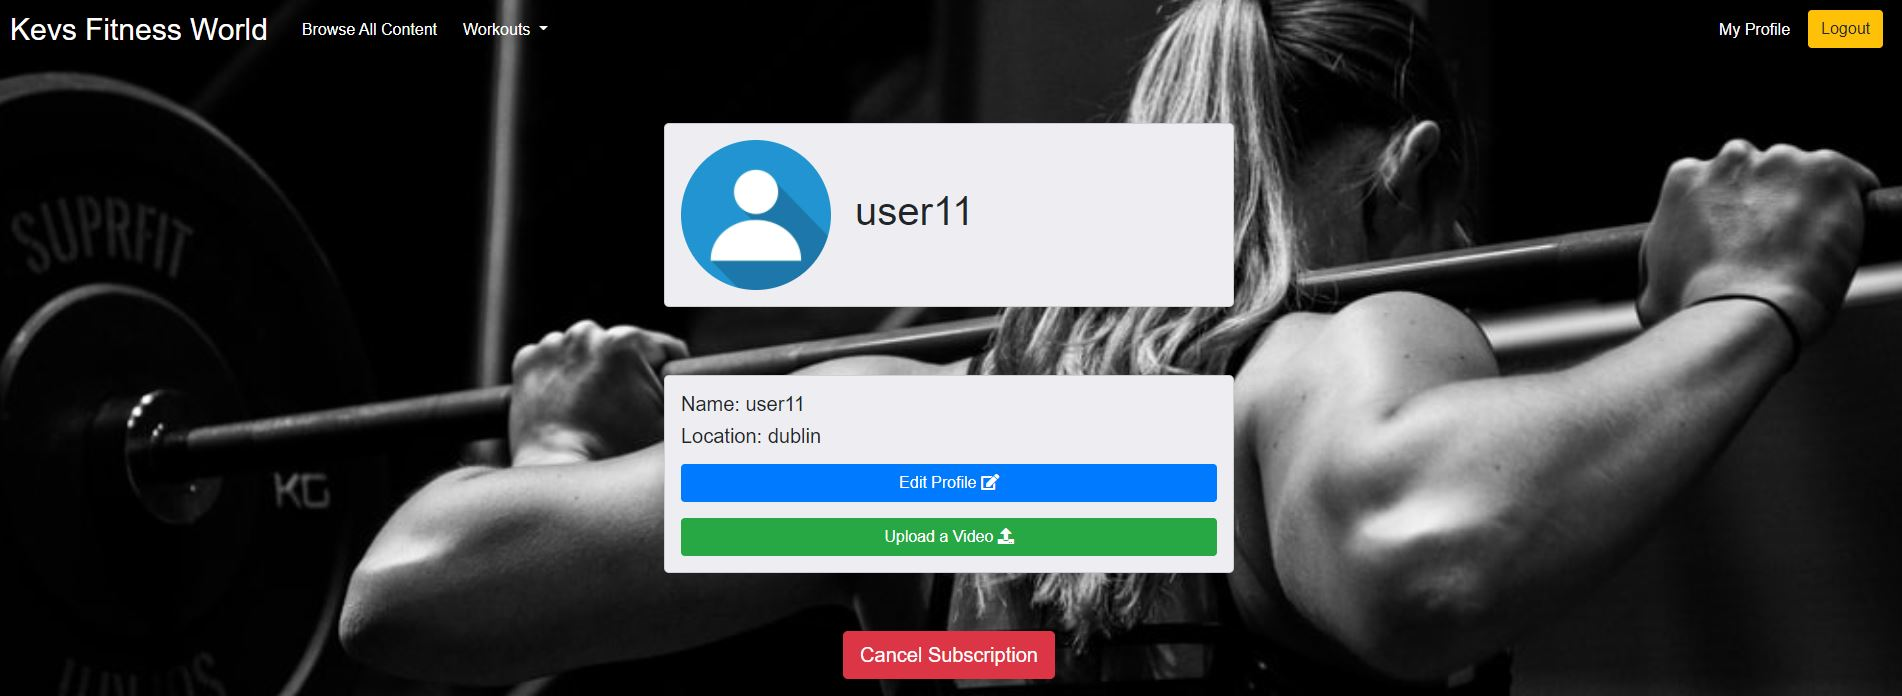
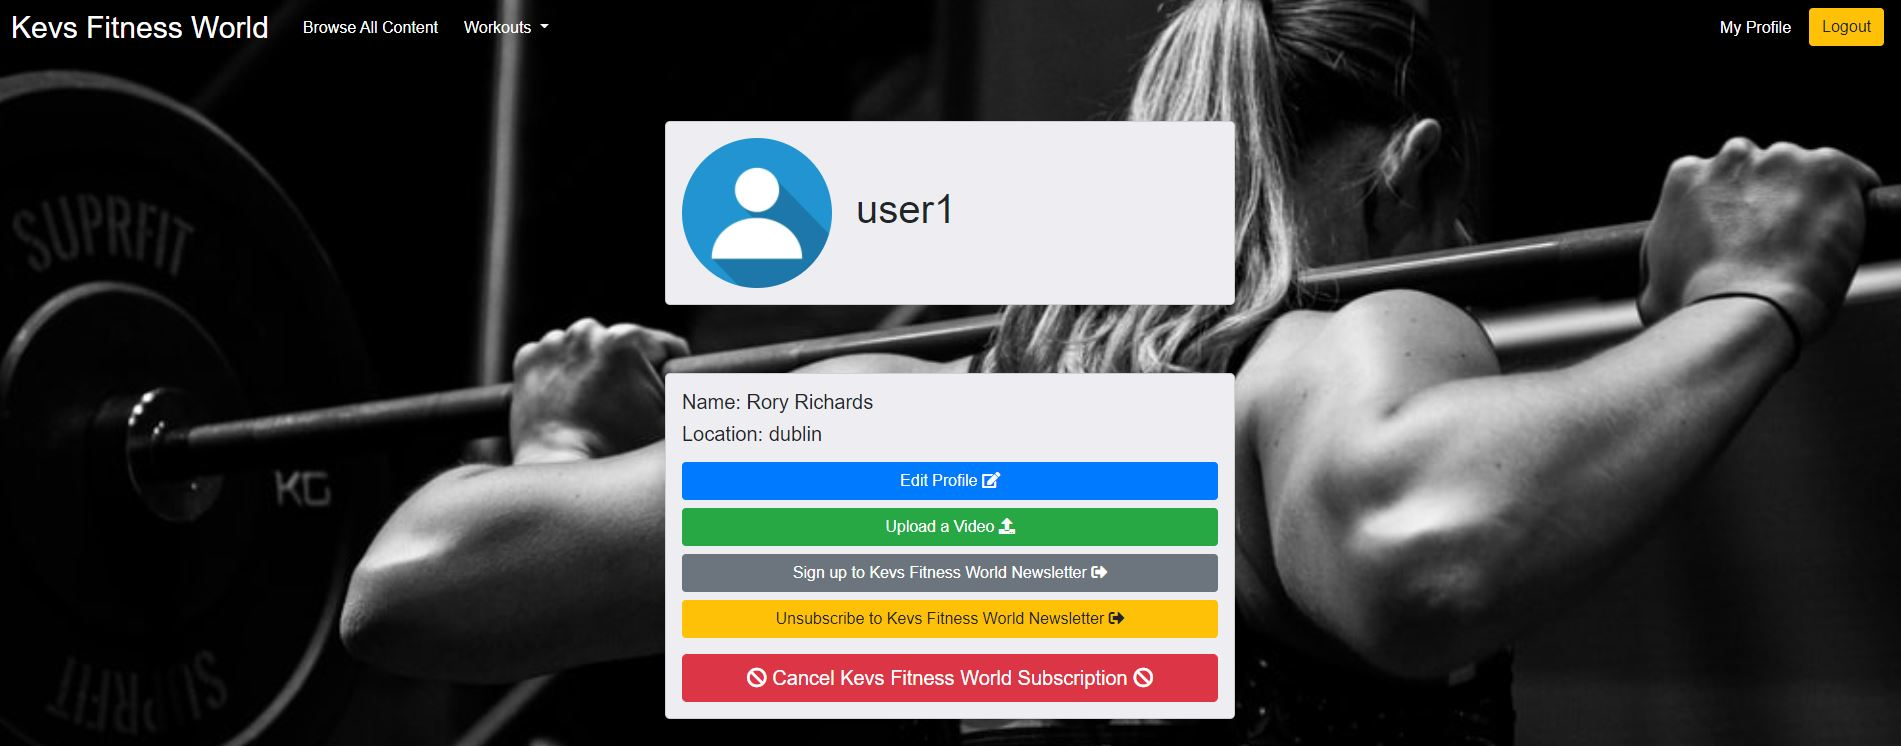
Final push before submission

diff --git a/README.md b/README.md
@@ -18,6 +18,7 @@ The deployed web application can be found [here](https://kevspp5.herokuapp.com/)
 - [7. Contribution Links](#contribution-links)
 - [8. Deployment](#deployment)
 - [9. Wireframes](#wireframes)
+- [9. E-commerce business model](#e-commerce-business-model)
 
 
 
@@ -200,7 +201,14 @@ The user profile page consists of the user information details.
 <br>
 The user profile page gives the user the ability to edit their profile, upload video content.
 <br>
+The user profile page gives the user the ability to sign up the Kevs Fitness World newsletter and to unsubscribe
+
+![Newsletter Sign Up page](media/readme_pics/newslettersignup.JPG)
+![Newsletter Unsubscribe page](media/readme_pics/newsletterunsubscribe.JPG)
+
 The user profile page allows the user to cancel their subscription if they wish.
+<br>
+When the user uploads a video, they can also be accessed from this page for quick access if the user wishes to edit or delete. 
 
 #### Logout
 
@@ -449,9 +457,9 @@ The following steps were used to to deploy this web application to Heroku and us
 8. In your setting.py file in Github add "storages" to installed app.
 9. In your setting.py file in Github add your bucket configuration, cache control and your media and static urls.
 
-<a name="Wireframes"></a>
+<a name="wireframes"></a>
 
-# 8.	Wireframes
+# 9.	Wireframes
 
 [Go to the top](#table-of-contents)
 
@@ -477,3 +485,67 @@ The following steps were used to to deploy this web application to Heroku and us
 ## Video Detail and Profile Page
 ![Video Detail and Profile Page](media/wireframes/VideoDetailandProfilePage.png)
 
+<a name="e-commerce-business-model"></a>
+
+# 9.	E-commerce business model
+
+[Go to the top](#table-of-contents)
+
+Fitness is one of the most popular genres of subscription networks. And as online fitness becomes more popular, consumers are increasingly expecting virtual fitness or fitness subscription video on demand (SVOD) as an option.
+<br>
+And why wouldn’t they? The ease of at-home fitness and availability of classes on-demand makes committing to a subscription plan worth it. According to Global Market Insights, online fitness programs will grow by 30% through 2026. 
+
+## Why create an online fitness program
+
+1. The staying power of digital-focused fitness
+
+Working out from home has always been a popular exercise option. From Jane Fonda VHS tapes to Peloton bikes, digitally-focused at-home fitness had established a growing and viable market even before COVID-19 restricted access to gyms and fitness studios.
+<br>
+Many popular fitness studios with previously-developed fitness subscription networks grew their audience base exponentially over the course of 2020. But before the pandemic, Vimeo OTT fitness channels had already proved their worth — with 206 minutes of content watched each month on average and an 89% retention rate.
+
+2. Many options for monetization
+
+There are many different ways to monetize your fitness videos online. From Instagram to pay-per-view to OTT channels, everyone from fitness influencers to franchised organizations can find ways to make money through online content.
+
+3. Your application, your content
+
+This is an obvious pro. By creating your online fitness program or OTT channel, you have the power to make the content you feel is missing from the industry or the content that is an extension of you.
+
+## Launching a fitness subscription application online
+
+While a fitness subscription network takes time and equipment to get off the ground, it is much more scalable than a strictly brick-and-mortar business model.
+<br>
+Often, factors like time and location can stop a consumer from joining you for an in-person class. By moving your content online, you eliminate those barriers and bring the content straight to your audience. 
+
+### I need to know my fitness audience
+
+Before I launch the online fitness program, I need to do market research to ensure that your target audience is out there. Through consistent uploads and outreach, I will reach more people and build relationships with my subscribers. 
+<br>
+Making content that speaks to my audience will result in consistent conversions and return customers
+
+### I want to scale my business
+
+A no-brainer. By beginning a fitness subscription business, I can achieve the type of growth that isn’t possible through only in-person options. Online classes have no size limits or time and location restrictions. Once I've developed and filmed the content, I can sit back and watch my business grow – that is, until I'm ready to film again.
+
+### I can focus on the content
+
+To build and keep a subscription base, I have to produce quality content. From speaking to others in the business, the content has become the mainstay of there business. If a fitness subscription is a step I'm going to take, I have to focus on the content as my business’s meat and potatoes.
+
+## How I plan on growing my subscriber base
+
+1. Promote content, not my brand
+
+When it comes to promoting my fitness subscription network, creative matters. Content ads generally convert customers 3-4x cheaper than brand ads. So it pays to show off the content I'm creating rather than the brand itself. 
+<br>
+Using video for my promotions will also pay off. As a video business, it stands to reason that video converts better.
+
+2. Invest in community
+
+Fitness doesn’t have to be an individual journey. I can bring my subscribers into something greater than simply taking a class by investing in the community. I plan on utilizing social media to create groups or a hashtag. Create a space in my newsletters for subscribers to share about their journey with the platform. This creates even more value around my brand and has been proven to increase overall customer lifetime value.
+
+3. Stay true to my brand
+
+Maintaining that balance between innovation and staying true to my core offering is easier said than done. But staying true to your brand builds trust with the audience, so they know what they’re coming back to time and time again.
+
+4. Create new content consistently
+Sellers with over 500 videos saw retention rates of 91% on average. That may seem like many videos now, but if I'm planning on going live frequently — those videos add up quickly. Consistent uploads are probably the #1 way to keep subscribers around.
